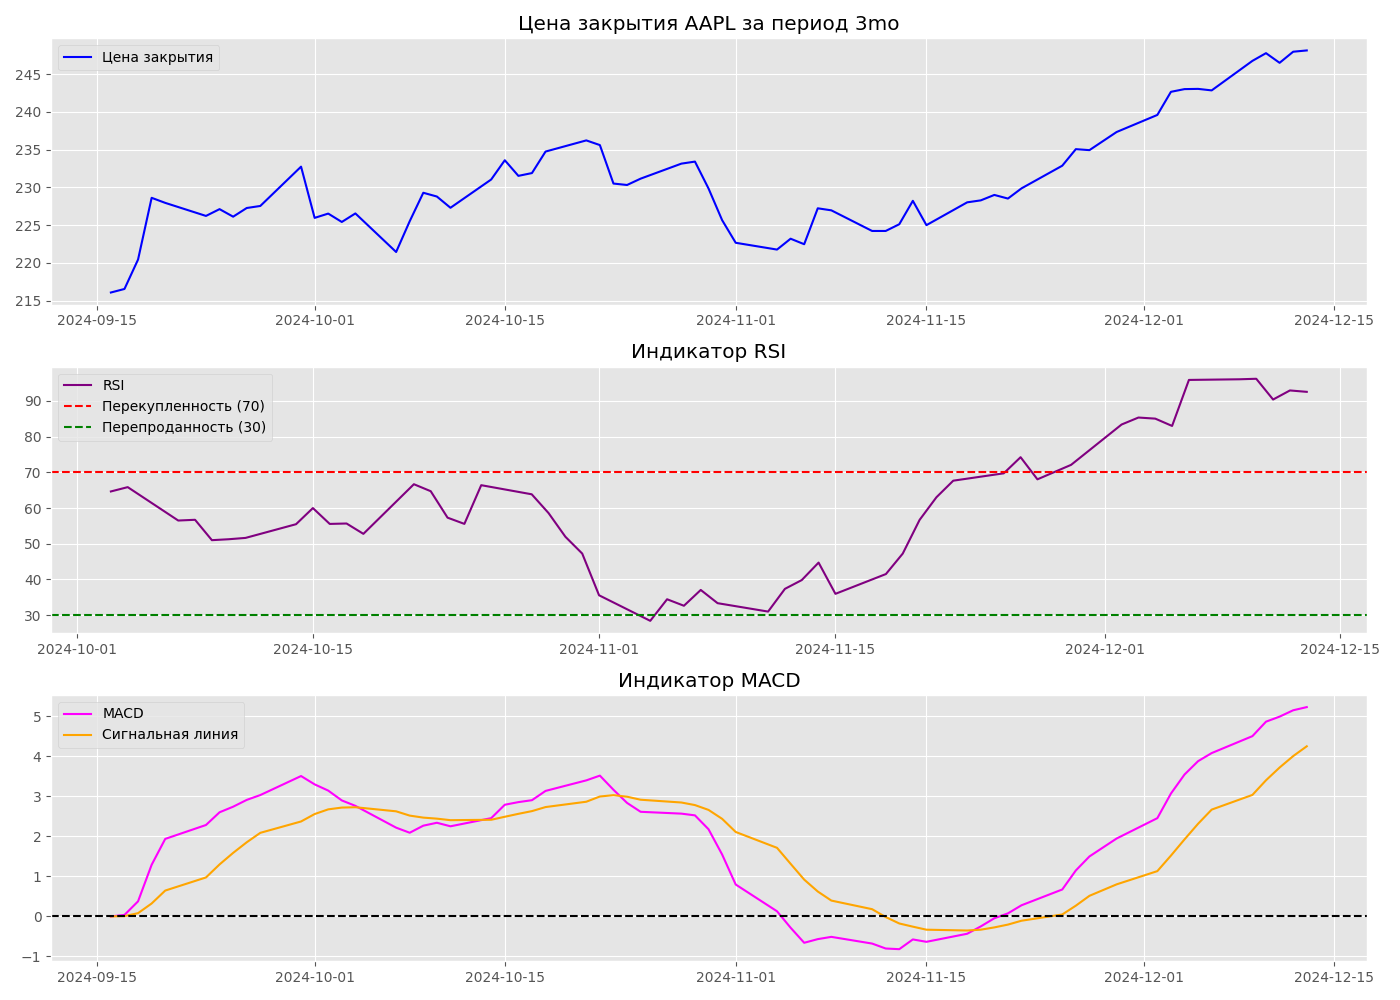
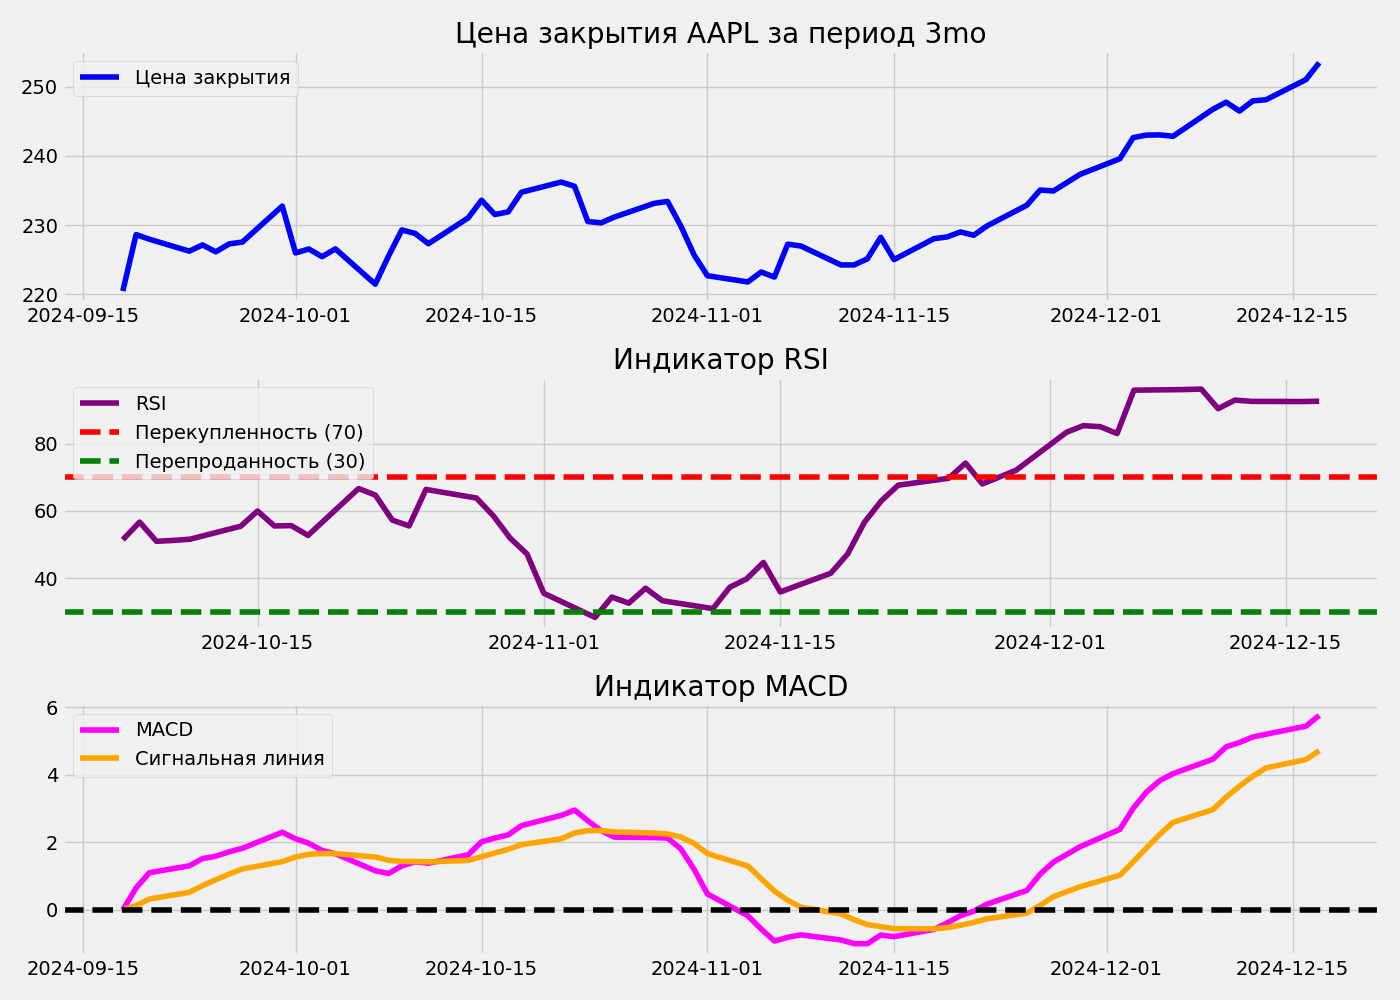
Вывод средней цены за период Уведомляет пользователя, если цена акций колебалась более чем на % за период. Выгружает данные в файл CSV Расчет и визуализация RSI, MACD Возможность загрузки данных за произвольный период по диапазону дат Возможность выбора стиля графика Расчет и визуализация статистиче
В.7

diff --git a/data_plotting.py b/data_plotting.py
@@ -76,3 +76,43 @@ def plot_with_indicators(data, ticker, period, style='default'):
     plt.savefig(filename)
     print(f"График сохранен как {filename}")
     plt.show()
+
+
+def plot_with_statistics(data, ticker, period, statistics, style='default'):
+    """
+    Визуализирует данные с дополнительными статистическими индикаторами.
+
+    :param data: DataFrame с колонкой 'Close'
+    :param ticker: Тикер акций
+    :param period: Период данных
+    :param statistics: Словарь со статистическими показателями
+    :param style: Стиль графика (например, 'ggplot', 'seaborn', 'default')
+    """
+    try:
+        plt.style.use(style)
+    except ValueError:
+        print(f"Предупреждение: Стиль '{style}' не найден. Используется стиль по умолчанию.")
+        plt.style.use('default')
+
+    plt.figure(figsize=(10, 6))
+
+    # График цены закрытия
+    plt.plot(data['Close'], label='Цена закрытия', color='blue')
+
+    # Линии статистических индикаторов
+    mean = statistics['mean_close']
+    std_dev = statistics['std_dev_close']
+    plt.axhline(mean, color='orange', linestyle='--', label=f'Средняя цена ({mean:.2f})')
+    plt.axhline(mean + std_dev, color='red', linestyle='--', label=f'Средняя + std ({mean + std_dev:.2f})')
+    plt.axhline(mean - std_dev, color='green', linestyle='--', label=f'Средняя - std ({mean - std_dev:.2f})')
+
+    plt.title(f"Цена закрытия и статистика {ticker} за период {period}")
+    plt.xlabel('Дата')
+    plt.ylabel('Цена')
+    plt.legend()
+    plt.tight_layout()
+
+    filename = f"{ticker}_{period}_statistics.png"
+    plt.savefig(filename)
+    print(f"График с индикаторами сохранен как {filename}")
+    plt.show()

diff --git a/data_download.py b/data_download.py
@@ -125,3 +125,34 @@ def calculate_macd(data, short_window=12, long_window=26, signal_window=9):
     data['MACD'] = short_ema - long_ema
     data['Signal_Line'] = data['MACD'].ewm(span=signal_window, adjust=False).mean()
     return data
+
+
+def calculate_statistics(data):
+    """
+    Рассчитывает статистические индикаторы для данных акций.
+
+    :param data: DataFrame с колонкой 'Close'
+    :return: Словарь со статистическими показателями
+    """
+    statistics = {
+        "mean_close": data['Close'].mean(),
+        "std_dev_close": data['Close'].std(),
+        "min_close": data['Close'].min(),
+        "max_close": data['Close'].max(),
+        "median_close": data['Close'].median(),
+    }
+    return statistics
+
+
+def display_statistics(statistics):
+    """
+    Выводит статистические показатели в консоль.
+
+    :param statistics: Словарь со статистическими показателями
+    """
+    print("\nСтатистический анализ данных:")
+    print(f"Средняя цена закрытия: {statistics['mean_close']:.2f}")
+    print(f"Стандартное отклонение цены закрытия: {statistics['std_dev_close']:.2f}")
+    print(f"Минимальная цена закрытия: {statistics['min_close']:.2f}")
+    print(f"Максимальная цена закрытия: {statistics['max_close']:.2f}")
+    print(f"Медианная цена закрытия: {statistics['median_close']:.2f}")

diff --git a/main.py b/main.py
@@ -55,6 +55,13 @@ def main():
     # Уведомление о сильных колебаниях
     dd.notify_if_strong_fluctuations(stock_data, threshold)
 
+    # Статистический анализ
+    statistics = dd.calculate_statistics(stock_data)
+    dd.display_statistics(statistics)
+
+    # Визуализация данных с дополнительными индикаторами
+    dplt.plot_with_statistics(stock_data, ticker, period or f"{start_date}_to_{end_date}", statistics, style)
+
     # Сохранение данных в CSV
     filename = f"{ticker}_{period}_stock_data.csv"
     dd.export_data_to_csv(stock_data, filename)

diff --git a/README.md b/README.md
@@ -41,7 +41,11 @@
 
 - calculate_rsi(data, window=14): Вычисляет индикатор RSI (Relative Strength Index) и добавляет в DataFrame колонку с данными RSI.
 
-- calculate_macd(data, short_window=12, long_window=26, signal_window=9): Вычисляет индикатор MACD (Moving Average Convergence Divergence) и добавляет в DataFrame колонку с данными MACD.  
+- calculate_macd(data, short_window=12, long_window=26, signal_window=9): Вычисляет индикатор MACD (Moving Average Convergence Divergence) и добавляет в DataFrame колонку с данными MACD.
+
+- calculate_statistics(data): Рассчитывает статистические индикаторы для данных акций.
+
+- display_statistics(statistics): Выводит статистические показатели в консоль.
 
 - export_data_to_csv(data, filename): Позволяет сохранять загруженные данные об акциях в CSV файл.
  
@@ -55,6 +59,8 @@
 - create_and_save_plot(data, ticker, period, filename): Создаёт график, отображающий цены закрытия и скользящие средние. Предоставляет возможность сохранения графика в файл. Параметр filename опционален; если он не указан, имя файла генерируется автоматически.
 
 - plot_with_indicators(data, ticker, period, style='default'): Визуализирует данные с индикаторами RSI и MACD с заданным стилем графика.
+
+- plot_with_statistics(data, ticker, period, statistics, style='default'): Визуализирует данные с дополнительными статистическими индикаторами.
 
 Пошаговое использование
 
